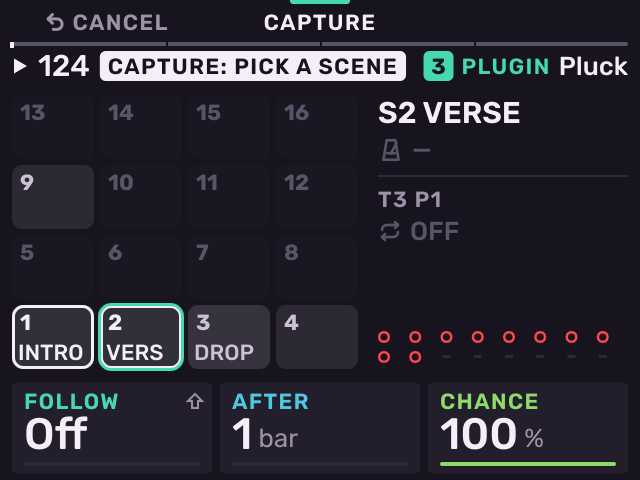
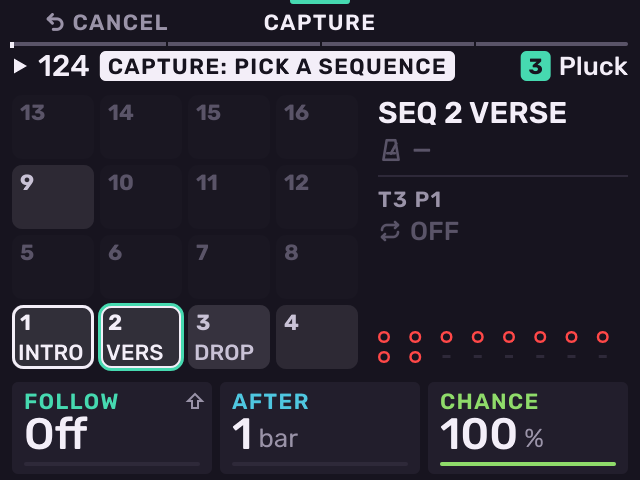
feat(melodee): a scene is called a sequence on every screen and in the guide (SEQUENCES, SEQ 2), the word the panel prints; SEQ held's sheet is PATTERNS, for the selected track's; the guide says STOP twice stops all notes, as it does

Changed region(s): [[0.5, 0.0938, 0.9062, 0.2812]]

diff --git a/src/melodee/shell/scene_jobs.cpp b/src/melodee/shell/scene_jobs.cpp
@@ -33,7 +33,7 @@ void Context::launch_scene(unsigned scene) {
         dirty = true;
     }
     ui.scene = uint8_t(scene);
-    std::string text = "S" + std::to_string(scene + 1);
+    std::string text = "SEQ " + std::to_string(scene + 1);
     if (s.name[0]) text += std::string(" ") + s.name;
     text += ": " + std::to_string(count) + (count == 1 ? " track" : " tracks");
     if (s.tempo) text += ", " + std::to_string(s.tempo / 10) + (s.tempo % 10 ? "." + std::to_string(s.tempo % 10) : "") + " BPM";
@@ -51,15 +51,15 @@ void Context::set_scene_tempo(unsigned scene, int tenths) {
 void Context::name_scene(unsigned scene) {
     name_scene_at = uint8_t(scene % pattern_count);
     const auto& s = project.scenes[name_scene_at];
-    open_name(NameTarget::Scene, s.name[0] ? std::string(s.name) : "S" + std::to_string(name_scene_at + 1), sizeof(Scene::name) - 1, true);
+    open_name(NameTarget::Scene, s.name[0] ? std::string(s.name) : "SEQ " + std::to_string(name_scene_at + 1), sizeof(Scene::name) - 1, true);
 }
 
 void Context::clear_scene(unsigned scene) {
     auto& s = project.scenes[scene % pattern_count];
-    if (s.plain()) { notice("S" + std::to_string(scene % pattern_count + 1) + " has no name or tempo"); return; }
+    if (s.plain()) { notice("SEQ " + std::to_string(scene % pattern_count + 1) + " has no name or tempo"); return; }
     s = Scene {};
     dirty = true;
-    notice("S" + std::to_string(scene % pattern_count + 1) + " cleared");
+    notice("SEQ " + std::to_string(scene % pattern_count + 1) + " cleared");
 }
 
 // The selected track's pattern's follow action, from its cards on SCENES (one undo a turn: the pattern's).
@@ -82,7 +82,7 @@ void Context::follow_to_column() {
     unsigned column = track().pattern % pattern_count;
     PatternFollow f = pattern().follow;
     Edit edit;
-    edit.what = "Follow to S" + std::to_string(column + 1);
+    edit.what = "Follow to SEQ " + std::to_string(column + 1);
     edit.track = ui.track;
     edit.column = int16_t(column);
     for (unsigned t = 0; t < track_count; ++t) {
@@ -93,7 +93,7 @@ void Context::follow_to_column() {
         edit.column_before.emplace_back(uint8_t(t), p);
         edit.column_after.emplace_back(uint8_t(t), std::move(after));
     }
-    if (edit.column_after.empty()) { notice("S" + std::to_string(column + 1) + ": nothing else to follow"); return; }
+    if (edit.column_after.empty()) { notice("SEQ " + std::to_string(column + 1) + ": nothing else to follow"); return; }
     for (const auto& [t, value] : edit.column_after) restore_pattern(t, column, value);
     unsigned count = unsigned(edit.column_after.size());
     edits.push(std::move(edit));
@@ -107,7 +107,7 @@ void Context::capture_scene(unsigned column, bool asked) {
     column %= pattern_count;
     ui.scene_capture = false;
     Edit edit;
-    edit.what = "Capture S" + std::to_string(column + 1);
+    edit.what = "Capture SEQ " + std::to_string(column + 1);
     edit.track = ui.track;
     edit.column = int16_t(column);
     unsigned replaced = 0;
@@ -120,14 +120,14 @@ void Context::capture_scene(unsigned column, bool asked) {
         edit.column_before.emplace_back(uint8_t(t), was);
         edit.column_after.emplace_back(uint8_t(t), patterns.at[t][from]);
     }
-    if (edit.column_after.empty()) { notice("S" + std::to_string(column + 1) + ": every track plays it already"); return; }
+    if (edit.column_after.empty()) { notice("SEQ " + std::to_string(column + 1) + ": every track plays it already"); return; }
     if (replaced && !asked) { ask(*this, UiState::Ask::CaptureScene, int(column)); return; }
     for (const auto& [t, value] : edit.column_after) restore_pattern(t, column, value);
     unsigned count = unsigned(edit.column_after.size());
     edits.push(std::move(edit));
     dirty = true;
     ui.scene = uint8_t(column);
-    notice("S" + std::to_string(column + 1) + " captured: " + std::to_string(count) + (count == 1 ? " track" : " tracks"));
+    notice("SEQ " + std::to_string(column + 1) + " captured: " + std::to_string(count) + (count == 1 ? " track" : " tracks"));
 }
 
 unsigned Context::tempo_now() const {

diff --git a/src/melodee/pages/scenes_page.cpp b/src/melodee/pages/scenes_page.cpp
@@ -48,10 +48,10 @@ void draw(Paint& p, const Snapshot& s) {
     unsigned hand = s.ui.scene % pattern_count;
     const auto& scene = s.project.scenes[hand];
     Header h = header_of(s);
-    h.left.push_back(chip("SCENES", c));
+    h.left.push_back(chip("SEQUENCES", c)); // a scene on screen is a sequence, the panel's word (SEQ)
     h.left.push_back(bank_pill(s));
     h.right.push_back(tag_of(s, s.ui.track));
-    SoftKeys keys {{"SCENES", "ROLL", "MOTION"}, 0, c}; // B1's second page: B1 again goes back to Patterns
+    SoftKeys keys {{"SEQUENCES", "ROLL", "MOTION"}, 0, c}; // B1's second page: B1 again goes back to Patterns
     keys.dots[0] = 2; keys.dot_at[0] = 1;
     if (s.ui.shift) keys = SoftKeys {{"", "CAPTURE", "ALL"}, -1, c}; // Shift + B2: what plays into a scene; Shift + B3: the follow onto every track's pattern
     if (s.ui.scene_capture) keys = SoftKeys {{"CANCEL", "CAPTURE", ""}, 1, c, {KeyIcon::Back, KeyIcon::None, KeyIcon::None}}; // a pad picks the scene
@@ -92,7 +92,7 @@ void draw(Paint& p, const Snapshot& s) {
 
     // Beside it: the scene in hand, its tempo, the follow action of the track's pattern, the tracks.
     float x = gx + grid_w + 10, w = zone::width - zone::pad - x, y = gy;
-    juce::String title = "S" + juce::String(hand + 1) + (scene.name[0] ? " " + juce::String(scene.name) : juce::String());
+    juce::String title = "SEQ " + juce::String(hand + 1) + (scene.name[0] ? " " + juce::String(scene.name) : juce::String());
     p.text(title, x, y, w, 18, p.fit(title, plain(colour::text, type::list, Weight::SemiBold), w, type::floor));
     icon(p, Icon::Metro, x, y + 21, 13, scene.tempo ? colour::amber : colour::dim, 1.3f);
     p.text(scene.tempo ? tempo_text(scene.tempo) + " BPM" : juce::String::fromUTF8("\xe2\x80\x94"), x + 17, y + 19, w - 17, 16,

diff --git a/src/melodee/pages/common.cpp b/src/melodee/pages/common.cpp
@@ -287,7 +287,7 @@ void describe_card(const Snapshot& s, const Binding& b, ui::KnobCard& c) {
     case Kind::PrintTailPick: c.label = "TAIL"; c.value = b.value == 2 ? "Cut" : b.value == 1 ? "Ring" : "Loop"; break;
     case Kind::FollowAfter: c.label = "AFTER"; c.value = juce::String(b.value % 64 + 1); c.unit = b.value >= 64 ? (b.value == 64 ? "play" : "plays") : (b.value == 0 ? "bar" : "bars"); break;
     case Kind::FollowChance: c.label = "CHANCE"; c.value = juce::String(b.value); c.unit = "%"; break;
-    case Kind::SceneTempo: c.label = "S" + juce::String(b.id + 1) + " TEMPO"; c.value = b.value < 30 ? juce::String("None") : juce::String(b.value); c.unit = b.value < 30 ? "" : "BPM"; break;
+    case Kind::SceneTempo: c.label = "SEQ " + juce::String(b.id + 1) + " TEMPO"; c.label_mixed = "Seq " + juce::String(b.id + 1) + " tempo"; c.value = b.value < 30 ? juce::String("None") : juce::String(b.value); c.unit = b.value < 30 ? "" : "BPM"; break;
     case Kind::PatternProgram: { // the pattern in hand's own program, as PROGRAM shows one
         const auto& p = engine_info(EngineKind::Midi).params[midi_track::PatternProgram0];
         auto shown = show(p, b.value);

diff --git a/src/melodee/pages/patterns_page.cpp b/src/melodee/pages/patterns_page.cpp
@@ -114,7 +114,7 @@ void draw(Paint& p, const Snapshot& s) {
         h.left.push_back(chip("T" + juce::String(s.ui.track + 1) + " P" + juce::String(s.track().pattern % pattern_count + 1), c));
     else
         {
-        juce::String id = "S" + juce::String(column + 1), name(scene.name);
+        juce::String id = "SEQ " + juce::String(column + 1), name(scene.name);
         h.left.push_back(chip(name.isEmpty() || name == id ? id : id + " " + name, colour::amber)); // a name of its own beside its number
     }
     // Rec Quantize's grid (Shift + Pad 10), after the scene: the header leaves it out when there is no room.
@@ -128,7 +128,7 @@ void draw(Paint& p, const Snapshot& s) {
     keys.dots[0] = 2; // B1's two pages: Patterns, Scenes
     if (s.ui.sheet_open) keys = SoftKeys {{"BACK", "", "DO IT"}, 2, c, {KeyIcon::Back, KeyIcon::None, KeyIcon::Check}};
     else if (s.ui.shift) {
-        keys = SoftKeys {{"SCENE", "FOLLOW", "VARY"}, -1, c};
+        keys = SoftKeys {{"SEQUENCE", "FOLLOW", "VARY"}, -1, c};
         if (s.ui.patterns_cards == 1) keys.tints[0] = colour::amber;
         if (s.ui.patterns_cards == 2) keys.tints[1] = colour::amber;
     }

diff --git a/src/melodee/shell/midi_config_rows.h b/src/melodee/shell/midi_config_rows.h
@@ -22,7 +22,7 @@ inline const char* midi_row_name(unsigned row) {
     static const char* const names[] {"MIDI port", "MIDI in channel", "MIDI out channel", "Track channel", "Track MIDI in",
                                       "Pad MIDI in", "Pad MIDI out", "MIDI sync in", "MIDI sync out", "MIDI thru",
                                       "Receive program change", "Remote channel", "Remote track CC", "Remote pattern CC",
-                                      "Remote scene CC", "CV/sync out", "CV/sync base", "CV/sync division", "Parameter takeover",
+                                      "Remote sequence CC", "CV/sync out", "CV/sync base", "CV/sync division", "Parameter takeover",
                                       "Knob FX takeover", "Fader takeover", "MIDI panic", "Reset factory settings"};
     return names[row % MidiRows];
 }

diff --git a/src/melodee/pages/ask_sheet.cpp b/src/melodee/pages/ask_sheet.cpp
@@ -164,9 +164,9 @@ void draw_ask_sheet(Paint& p, const Snapshot& s) {
             if (s.sketches[t][column].notes || s.sketches[t][column].moves) ++replaced;
         }
         sheet.icon = Icon::Pattern;
-        sheet.title = "Replace " + count_of(replaced, "pattern", "patterns") + " in S" + juce::String(column + 1) + "?";
+        sheet.title = "Replace " + count_of(replaced, "pattern", "patterns") + " in SEQ " + juce::String(column + 1) + "?";
         sheet.lines = {"They get the patterns playing now.", undo_line};
-        sheet.chip = "S" + juce::String(column + 1);
+        sheet.chip = "SEQ " + juce::String(column + 1);
         sheet.chip_colour = colour_of(s);
         sheet.undo = true;
         verb = "REPLACE"; verb_glyph = Icon::Swap;

diff --git a/src/melodee/pages/seq_sheet.cpp b/src/melodee/pages/seq_sheet.cpp
@@ -43,7 +43,7 @@ void draw_seq_sheet(Paint& p, const Snapshot& s) {
     p.fill(0, zone::soft_y, zone::width, zone::soft_h + zone::header_h + zone::picture_h, colour::bg);
     soft_keys(p, {{"PATTERNS", "ROLL", "MOTION"}, -1, c});
     Header h = header_of(s);
-    h.left.push_back(chip("SEQUENCE", c));
+    h.left.push_back(chip("PATTERNS", c)); // the selected track's patterns (a sequence is a scene, pattern n of every track)
     const bool printing = s.ui.seq_print; // freeze plan F2c: Seq held + Sample Record, the pads freeze or thaw
     const auto& frozen = s.freeze[t];
     h.left.push_back(printing ? chip(Icon::Snow, "PRINT", colour::ice) : bank_pill(s));

diff --git a/src/melodee/shell/ask.cpp b/src/melodee/shell/ask.cpp
@@ -95,7 +95,7 @@ std::string ask_title(const Project& project, const UiState& ui) {
     case UiState::Ask::Unfreeze: return "Unfreeze track " + std::to_string(ui.ask_target % track_count + 1) + "?";
     case UiState::Ask::DeleteFile: return std::string("Delete ") + ui.ask_name.data() + "?";
     case UiState::Ask::ReplacePlugin: return std::string("Replace ") + ui.ask_name.data() + "?";
-    case UiState::Ask::CaptureScene: return "Capture into S" + std::to_string(ui.ask_target % pattern_count + 1) + "?";
+    case UiState::Ask::CaptureScene: return "Capture into SEQ " + std::to_string(ui.ask_target % pattern_count + 1) + "?";
     default: return {};
     }
 }

diff --git a/src/melodee/pages/overlays.cpp b/src/melodee/pages/overlays.cpp
@@ -152,7 +152,7 @@ void draw_notice(Paint& p, const Snapshot& s) {
         return;
     }
     if (s.ui.scene_capture && s.ui.page == PageId::Scenes) {
-        text = "Capture: pick a scene"; // Scenes' Shift + B2: a pad takes what plays
+        text = "Capture: pick a sequence"; // Scenes' Shift + B2: a pad takes what plays
     } else if (s.ui.copying == UiState::Copying::Pads) {
         char label[4]; pad_label(unsigned(std::max<int>(s.ui.copy_from, 0)), label);
         text = s.ui.copy_from < 0 ? juce::String("Copy: pick a pad") : "Copy " + juce::String(label) + ": pick where";

diff --git a/src/melodee/pages/name_sheet.cpp b/src/melodee/pages/name_sheet.cpp
@@ -38,7 +38,7 @@ void draw_name_sheet(Paint& p, const Snapshot& s) {
         what = made[s.ui.export_kind % 6];
         break;
     }
-    case NameTarget::Scene: what = "SCENE " + juce::String(s.ui.scene % pattern_count + 1); break; // roadmap P5
+    case NameTarget::Scene: what = "SEQUENCE " + juce::String(s.ui.scene % pattern_count + 1); break; // roadmap P5
     case NameTarget::None: break;
     }
     Header h = header_of(s);

diff --git a/src/melodee/shell/midi_io.cpp b/src/melodee/shell/midi_io.cpp
@@ -283,7 +283,7 @@ void MidiIo::do_remote(Context& c, const RemoteJob& job) {
         break;
     case K::Scene:
         c.launch_scene(job.index);
-        c.notice("Scene " + print_pattern_name(job.index));
+        c.notice("Sequence " + print_pattern_name(job.index));
         break;
     default: break;
     }

diff --git a/docs/guide/sequencing.md b/docs/guide/sequencing.md
@@ -12,8 +12,8 @@ pages, **SEQ** goes to Patterns. **SHIFT** + **SEQ** opens Step Edit (see
 
 **Patterns** shows the selected track's 16 patterns of the bank in view, laid
 out as the pads: pad 1 bottom left, pad 13 top left. Press a pad to launch
-the pattern in that cell. The header shows the bank and the scene in view
-(**S2**), with its name when it has one.
+the pattern in that cell. The header shows the bank and the sequence in view
+(**SEQ 2**), with its name when it has one.
 
 ![Patterns](../images/screens/patterns.png)
 
@@ -23,7 +23,7 @@ Each cell shows:
   is queued for the next bar.
 - A tint when the pattern has notes.
 - An arrow when the pattern has a follow action.
-- An amber dot when the scene has its own tempo.
+- An amber dot when the sequence has its own tempo.
 - A small dot for each other track in view: a ring when that track has notes
   in this pattern, filled when it plays it.
 
@@ -40,13 +40,13 @@ and a progress bar (– when nothing plays). The pads light as the cells.
 | **SHIFT** + pad | The printed **SHIFT** jobs. |
 | Encoder | Select the previous / next track. |
 | **SHIFT** + encoder | Move the playhead by one grid step. Stopped, this sets where **SHIFT** + **PLAY** continues from. |
-| Encoder push | Launch the scene of the selected track's pattern on every track. |
+| Encoder push | Launch the sequence of the selected track's pattern on every track. |
 | **PAD BANK** | Pattern bank A–H. The bank LEDs show it. |
 | **−** / **+** | Select the previous / next track. |
 | **K1** | Pattern length: 1, 2, 4 … 128 bars. **SHIFT**: any number of bars. |
 | **K2** | Grid (Q): 1/4 to 1/64, with triplets. **SHIFT**: time signature. |
 | **K3** | Swing (50–75 %). **SHIFT**: metronome level. |
-| **SHIFT** + **B1** | **SCENE**: the scene's tempo and name. |
+| **SHIFT** + **B1** | **SEQUENCE**: the sequence's tempo and name. |
 | **SHIFT** + **B2** | **FOLLOW**: the selected pattern's follow action. |
 | **SHIFT** + **B3** | **VARY**: the variation sheet. |
 
@@ -72,7 +72,7 @@ Hold **SEQ** on any page. The pads become the selected track's patterns:
 - Press a pad to launch that pattern at the next bar (at once when stopped).
 - Press more pads in the same hold to make a **pattern chain** (up to
   eight). Each pattern plays once, then the next.
-- **SHIFT** + pad launches that **scene**: the pattern on every track that
+- **SHIFT** + pad launches that **sequence**: the pattern on every track that
   has notes there.
 - Hold a pad and press another to copy the pattern.
 - **ERASE** + pad clears the pattern (asks first). **SHIFT** + **ERASE**
@@ -80,7 +80,7 @@ Hold **SEQ** on any page. The pads become the selected track's patterns:
 - **K1**–**K3** set the pattern's length, grid and swing. The encoder sets
   the tempo. Push it to switch between whole BPM and tenths.
 - **B1**–**B3** open Patterns, Roll and Motion. Press **B1** again for
-  Scenes. The dots under **B1** show which of the two pages is open.
+  Sequences. The dots under **B1** show which of the two pages is open.
 - **PAD BANK** steps the pattern bank A–H (**SHIFT**: back). Hold a pad,
   step the bank and press a pad to copy across banks.
 - **−** / **+** launch the previous / next pattern.
@@ -88,11 +88,11 @@ Hold **SEQ** on any page. The pads become the selected track's patterns:
 - **SAMPLE RECORD** freezes or thaws patterns. See
   [Freeze a track](tracks.md#freeze-a-track).
 
-After 0.3 seconds the **Sequence** sheet shows the patterns and the chain:
+After 0.3 seconds the **Patterns** sheet shows the selected track's patterns and the chain:
 what plays now, what plays next, what plays after that, and the tempo. A
 small number on a pad shows its place in the chain.
 
-![The Sequence sheet](../images/screens/seqchain.png)
+![SEQ held: the Patterns sheet](../images/screens/seqchain.png)
 
 ## Record
 
@@ -306,21 +306,21 @@ without moving the notes.
 **SHIFT** + **Pad 2** / **Pad 3** halve / double the pattern length.
 **SHIFT** + **Pad 6** / **Pad 7** play it at half / double speed.
 
-## Scenes and follow actions
+## Sequences and follow actions
 
-A scene is one column of patterns: scene 3 is pattern 3 on every track. On
-Patterns, cell n is also scene n.
+A sequence is one column of patterns: sequence 3 is pattern 3 on every track. On
+Patterns, cell n is also sequence n.
 
-- The scene in view is the column of the selected track's pattern. Push the
+- The sequence in view is the column of the selected track's pattern. Push the
   encoder to launch it at the next bar: pattern n plays on every track that
-  has notes there, at the scene's tempo. Tracks with no notes in that column
+  has notes there, at the sequence's tempo. Tracks with no notes in that column
   keep playing.
-- **SHIFT** + **B1** (**SCENE**): **K1** sets the scene's tempo
-  (below 30 is None). Push the encoder to name the scene. Press **ERASE**
-  to clear the scene's name and tempo. The header shows **S** and the scene
-  number, and its name.
+- **SHIFT** + **B1** (**SEQUENCE**): **K1** sets the sequence's tempo
+  (below 30 is None). Push the encoder to name the sequence. Press **ERASE**
+  to clear the sequence's name and tempo. The header shows **SEQ** and the
+  sequence's number, and its name.
 
-![SCENE](../images/screens/patternsscene.png)
+![SEQUENCE](../images/screens/patternsscene.png)
 
 **SHIFT** + **B2** (**FOLLOW**) sets the **follow action** of the selected
 pattern: what the pattern does after it has played for a while.
@@ -334,25 +334,25 @@ pattern: what the pattern does after it has played for a while.
 - Push the encoder to put the follow action on every track's pattern in
   that column.
 
-### Scenes page
+### Sequences page
 
-Press **B1** on Patterns to open **Scenes**. Press **B1** again to go back.
+Press **B1** on Patterns to open **Sequences**. Press **B1** again to go back.
 
-![Scenes](../images/screens/scenes.png)
+![Sequences](../images/screens/scenes.png)
 
-- The pads are the bank's 16 scenes, laid out as on Patterns. Press a pad
-  to launch its scene at the next bar. **ERASE** + pad clears the scene's
+- The pads are the bank's 16 sequences, laid out as on Patterns. Press a pad
+  to launch its sequence at the next bar. **ERASE** + pad clears the sequence's
   name and tempo. **PAD BANK** steps the bank.
-- The scene launched last is the scene in hand. The encoder sets its tempo
+- The sequence launched last is the sequence in hand. The encoder sets its tempo
   (below 30 is None). Push the encoder to name it. **ERASE** clears it.
 - **K1**–**K3** set the selected pattern's follow action, as on **FOLLOW**.
   **SHIFT** + **K1** sets the second action. **SHIFT** + **B3** (**ALL**)
   puts the follow action on every track's pattern in that column.
 - **−** / **+** select the track. The dots on the right are the tracks:
-  bright in the scene, dim on another pattern, a red ring stopped by a
+  bright in the sequence, dim on another pattern, a red ring stopped by a
   follow action.
 - **SHIFT** + **B2** (**CAPTURE**), then a pad: the patterns playing now
-  become that scene. Each track's playing pattern is copied into its
+  become that sequence. Each track's playing pattern is copied into its
   pattern of that column, as one undo. If some of those patterns hold notes,
   Melodee asks first. **B1** (**CANCEL**) stops before a pad.
 
